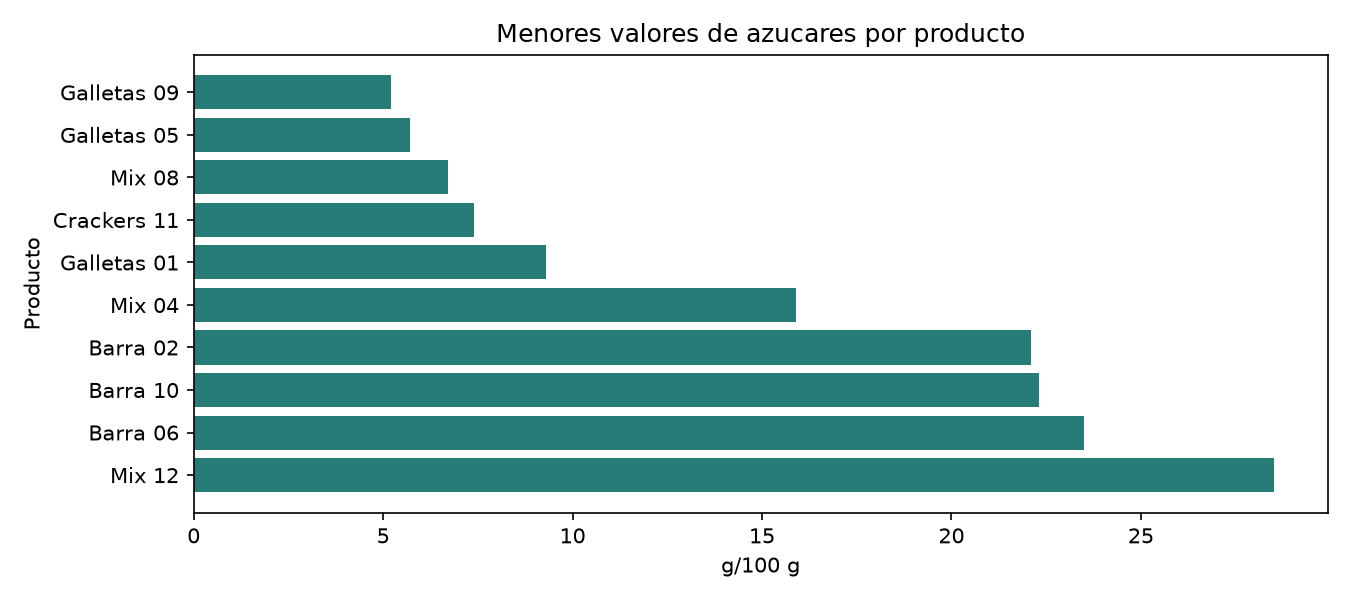
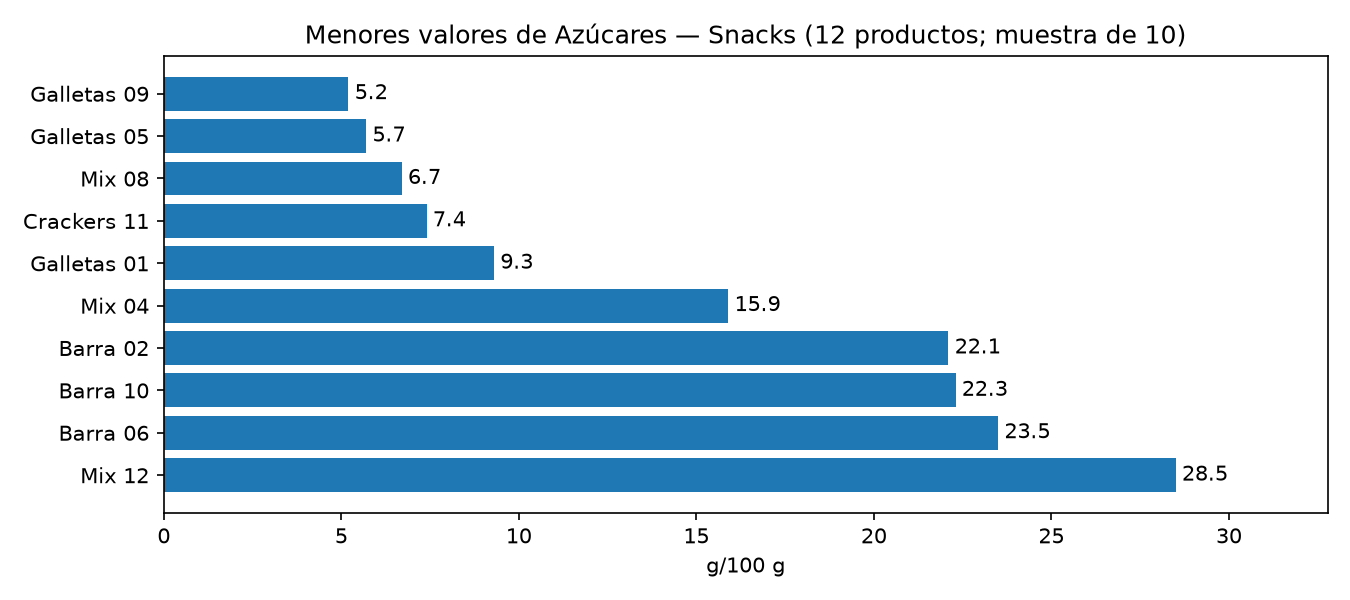
Mejora claridad y selección de gráficos

diff --git a/src/graficos.py b/src/graficos.py
@@ -4,33 +4,74 @@ import pandas as pd
 
 from src.modelo import columna_nutriente
 
+ETIQUETAS_NUTRIENTES = {
+    "energia": ("Energía", "kcal/100 g"),
+    "proteinas": ("Proteínas", "g/100 g"),
+    "carbohidratos": ("Carbohidratos", "g/100 g"),
+    "azucares": ("Azúcares", "g/100 g"),
+    "grasas": ("Grasas", "g/100 g"),
+    "grasas_saturadas": ("Grasas saturadas", "g/100 g"),
+    "fibra": ("Fibra", "g/100 g"),
+    "sal": ("Sal", "g/100 g"),
+}
+
 
 def generar_graficos(
-    comparacion: pd.DataFrame, faltantes: list[dict], salida: Path
+    comparacion: pd.DataFrame,
+    faltantes: list[dict],
+    salida: Path,
+    nutriente: str,
+    categoria: str | None,
+    cantidad_productos: int,
+    total_validos: int,
 ) -> None:
     """Genera gráficos de comparación nutricional y datos faltantes."""
     import matplotlib.pyplot as plt
+    from matplotlib.patches import Patch
 
     salida.mkdir(parents=True, exist_ok=True)
-    for nutriente, unidad in (
-        ("energia", "kcal/100 g"),
-        ("azucares", "g/100 g"),
-    ):
-        columna = columna_nutriente(nutriente)
-        datos = comparacion.dropna(subset=[columna]).nsmallest(10, columna)
-        datos = datos.sort_values(columna, ascending=True)
-        figura, eje = plt.subplots(figsize=(9, max(4, len(datos) * 0.38)))
-        if datos.empty:
-            eje.text(0.5, 0.5, "No disponible", ha="center", va="center")
-        else:
-            eje.barh(datos["nombre"], datos[columna], color="#287c78")
-            eje.invert_yaxis()
-        eje.set_title(f"Menores valores de {nutriente} por producto")
-        eje.set_xlabel(unidad)
-        eje.set_ylabel("Producto")
-        figura.tight_layout()
-        figura.savefig(salida / f"grafico_{nutriente}.png", dpi=150)
-        plt.close(figura)
+    nombre_nutriente, unidad = ETIQUETAS_NUTRIENTES[nutriente]
+    columna = columna_nutriente(nutriente)
+    datos = comparacion.dropna(subset=[columna]).nsmallest(10, columna)
+    datos = datos.sort_values(columna, ascending=True)
+    categorias = sorted(comparacion["categoria"].unique())
+    paleta = dict(zip(categorias, plt.get_cmap("tab10").colors))
+    etiquetas = (
+        datos["nombre"]
+        if len(categorias) == 1
+        else datos["nombre"] + " (" + datos["categoria"] + ")"
+    )
+    figura, eje = plt.subplots(figsize=(9, max(4, len(datos) * 0.38)))
+    if datos.empty:
+        eje.text(0.5, 0.5, "No disponible", ha="center", va="center")
+    else:
+        barras = eje.barh(
+            etiquetas,
+            datos[columna],
+            color=[paleta[categoria_producto] for categoria_producto in datos["categoria"]],
+        )
+        eje.invert_yaxis()
+        eje.bar_label(barras, labels=[f"{valor:g}" for valor in datos[columna]], padding=3)
+        if len(categorias) > 1:
+            eje.legend(
+                handles=[
+                    Patch(facecolor=paleta[nombre], label=nombre)
+                    for nombre in categorias
+                ],
+                title="Categoría",
+            )
+        maximo = float(datos[columna].max())
+        eje.set_xlim(right=maximo * 1.15 if maximo else 1)
+    contexto = categoria or "todas las categorías"
+    eje.set_title(
+        f"Menores valores de {nombre_nutriente} — {contexto} "
+        f"({cantidad_productos} productos; muestra de {len(datos)})"
+    )
+    eje.set_xlabel(unidad)
+    eje.set_ylabel("")
+    figura.tight_layout()
+    figura.savefig(salida / "grafico_comparacion.png", dpi=150)
+    plt.close(figura)
 
     figura, eje = plt.subplots(figsize=(8, 6))
     puntos = comparacion.dropna(subset=["azucares_g_100g", "grasas_g_100g"])
@@ -45,7 +86,10 @@ def generar_graficos(
         eje.text(0.5, 0.5, "No disponible", ha="center", va="center")
     else:
         eje.legend(title="Categoría")
-    eje.set_title("Azúcares y grasas por producto")
+    eje.set_title(
+        f"Azúcares y grasas — {categoria or 'todas las categorías'} "
+        f"({len(puntos)} productos con ambos datos)"
+    )
     eje.set_xlabel("Azúcares (g/100 g)")
     eje.set_ylabel("Grasas totales (g/100 g)")
     figura.tight_layout()
@@ -75,7 +119,10 @@ def generar_graficos(
         eje.set_xticks(range(max_faltantes + 1))
         eje.set_xlim(right=max_faltantes + 0.5)
         eje.bar_label(barras, padding=4)
-    eje.set_title("Datos no disponibles por campo")
+    eje.set_title(
+        "Datos no disponibles por campo — todas las categorías "
+        f"({total_validos} productos válidos)"
+    )
     eje.set_xlabel("Cantidad de registros")
     eje.set_ylabel("Campo")
     figura.tight_layout()

diff --git a/tests/test_pipeline.py b/tests/test_pipeline.py
@@ -12,6 +12,7 @@ import pandas as pd
 
 from src.fuentes import FuenteCSV, FuenteJSON, fuente_desde_ruta
 from src.generar_datos import generar_registros
+from src.graficos import generar_graficos
 from src.main import main
 from src.pipeline import (
     comparar_etiquetas,
@@ -22,6 +23,63 @@ from src.pipeline import (
 
 
 class PipelineNutricionalTests(unittest.TestCase):
+    def test_grafico_usa_nutriente_categoria_leyenda_y_valores(self):
+        import matplotlib.pyplot as plt
+
+        ejes = []
+        subplots_original = plt.subplots
+
+        def registrar_subplot(*args, **kwargs):
+            figura, eje = subplots_original(*args, **kwargs)
+            ejes.append(eje)
+            return figura, eje
+
+        comparacion = pd.DataFrame(
+            [
+                {
+                    "nombre": "Producto B",
+                    "categoria": "Bebidas",
+                    "sal_g_100g": 0.8,
+                    "azucares_g_100g": 2.0,
+                    "grasas_g_100g": 1.0,
+                },
+                {
+                    "nombre": "Producto A",
+                    "categoria": "Snacks",
+                    "sal_g_100g": 0.2,
+                    "azucares_g_100g": 3.0,
+                    "grasas_g_100g": 2.0,
+                },
+            ]
+        )
+        with tempfile.TemporaryDirectory() as directorio:
+            with patch(
+                "matplotlib.pyplot.subplots", side_effect=registrar_subplot
+            ):
+                generar_graficos(
+                    comparacion,
+                    [{"campo": "sal_g_100g", "faltantes": 0}],
+                    Path(directorio),
+                    "sal",
+                    None,
+                    2,
+                    2,
+                )
+            eje = ejes[0]
+
+            self.assertTrue((Path(directorio) / "grafico_comparacion.png").is_file())
+            self.assertIn("Sal", eje.get_title())
+            self.assertIn("todas las categorías", eje.get_title())
+            self.assertIn("2 productos", eje.get_title())
+            self.assertEqual(eje.get_ylabel(), "")
+            self.assertEqual(list(eje.containers[0].datavalues), [0.2, 0.8])
+            self.assertEqual(
+                {texto.get_text() for texto in eje.get_legend().get_texts()},
+                {"Bebidas", "Snacks"},
+            )
+            self.assertIn("0.2", {texto.get_text() for texto in eje.texts})
+            plt.close("all")
+
     def test_entrada_inexistente_muestra_error_claro_sin_traceback(self):
         salida_error = io.StringIO()
         with (

diff --git a/src/main.py b/src/main.py
@@ -75,7 +75,15 @@ def main() -> None:
         na_rep="no disponible",
     )
     if not argumentos.sin_graficos:
-        generar_graficos(comparacion, faltantes, argumentos.salida)
+        generar_graficos(
+            comparacion,
+            faltantes,
+            argumentos.salida,
+            argumentos.nutriente,
+            argumentos.categoria,
+            len(comparacion),
+            len(productos),
+        )
 
     print(f"Registros leídos: {len(registros)}")
     print(f"Productos válidos: {len(productos)}")

diff --git a/README.md b/README.md
@@ -54,7 +54,7 @@ Las categorías son `Cereales`, `Bebidas`, `Lácteos`, `Snacks` y `Conservas`. L
 | Leer | Carga CSV o JSON con una estructura común (`src/fuentes.py`). |
 | Validar y limpiar | Comprueba identificadores, números, rangos y duplicados; conserva faltantes como nulos (`src/pipeline.py`). |
 | Analizar | Filtra por categoría, ordena por nutriente y calcula resúmenes (`src/pipeline.py`). |
-| Comunicar | Muestra resultados y exporta tablas, rechazos, faltantes y gráficos (`src/main.py`). |
+| Comunicar | Muestra resultados y exporta tablas, rechazos, faltantes y gráficos (`src/main.py`, `src/graficos.py`). |
 
 Los conteos de faltantes (`faltantes.csv` y su gráfico) se calculan únicamente sobre productos válidos, igual que los resúmenes por categoría; los rechazados se informan por separado en `rechazos.csv`. Su columna `registro` indica la posición, empezando en 1, en la secuencia de entrada tanto para CSV como para JSON. Los faltantes no se imputan como cero y se excluyen solo de los cálculos que necesitan ese valor. Las reglas de plausibilidad no son una validación regulatoria de etiquetado.
 
@@ -64,13 +64,13 @@ Los conteos de faltantes (`faltantes.csv` y su gráfico) se calculan únicamente
 .
 ├── data/       # datos de ejemplo y documentación
 ├── docs/       # ejemplo de gráfico
-├── src/        # fuentes, modelo, pipeline, aplicación y generador
+├── src/        # fuentes, modelo, pipeline, aplicación, gráficos y generador
 ├── tests/      # pruebas automatizadas
 ├── outputs/    # resultados generados; no se versionan
 └── README.md
 ```
 
-`FuenteCSV` y `FuenteJSON` implementan la interfaz `FuenteDatos`. `ProductoNutricional` modela una ficha; `pipeline.py` valida y compara; `main.py` coordina argumentos, exportaciones y gráficos.
+`FuenteCSV` y `FuenteJSON` implementan la interfaz `FuenteDatos`. `ProductoNutricional` modela una ficha; `pipeline.py` valida y compara; `main.py` coordina argumentos y exportaciones; `graficos.py` genera las visualizaciones.
 
 ## 6. Conceptos del curso aplicados
 
@@ -115,7 +115,7 @@ Ordenados por azucares (menor a mayor):
 2000000000039 Crackers 03    Snacks             35.4
 ```
 
-El gráfico de azúcares por producto está disponible en [docs/ejemplo_azucares_snacks.png](docs/ejemplo_azucares_snacks.png). Cada barra representa gramos de azúcares por 100 g: se leen los productos en el eje vertical y la cantidad en el horizontal; una barra más larga indica un valor mayor, no una evaluación de salud.
+El gráfico generado por `--nutriente` está disponible para este ejemplo en [docs/ejemplo_azucares_snacks.png](docs/ejemplo_azucares_snacks.png). El nutriente elegido determina las barras, sus unidades y el título. Cada barra representa gramos de azúcares por 100 g; los valores aparecen junto a las barras. Si se comparan varias categorías, los colores y la leyenda las distinguen. Una barra más larga indica un valor mayor, no una evaluación de salud.
 
 ## 9. Interpretación y limitaciones
 
